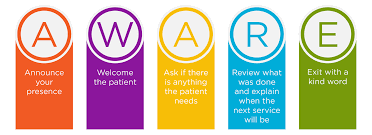
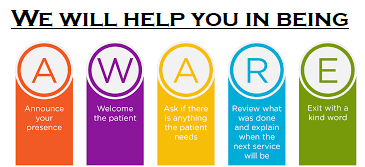
img update

diff --git a/css/style.css b/css/style.css
@@ -239,22 +239,28 @@ body {
 } */
 .section1
 {
-    height: 400px;
+    height: 300px;
     width: 33%;
     background-color: #00c6ff;
     float: left;
 }
 .section2
 {
-    height: 400px;
+    height: 300px;
     width: 33%;
     background-color: pink;
     float: left;
 }
 .section3
 {
-    height: 400px;
+    height: 300px;
     width: 34%;
     background-color: blueviolet;
     float: left;
+}
+.section3 img
+{
+    width: 100%;
+    background-size: cover;
+    height: 300px;
 }

diff --git a/index.html b/index.html
@@ -180,7 +180,8 @@
       <div class="section2">
       </div>
       <div
-      class="section3"></div>
+      class="section3">
+    <img src="../Job_bridge/img/aware.png" alt=""></div>
   </section>
   <section>
     <!-- footer section  -->
